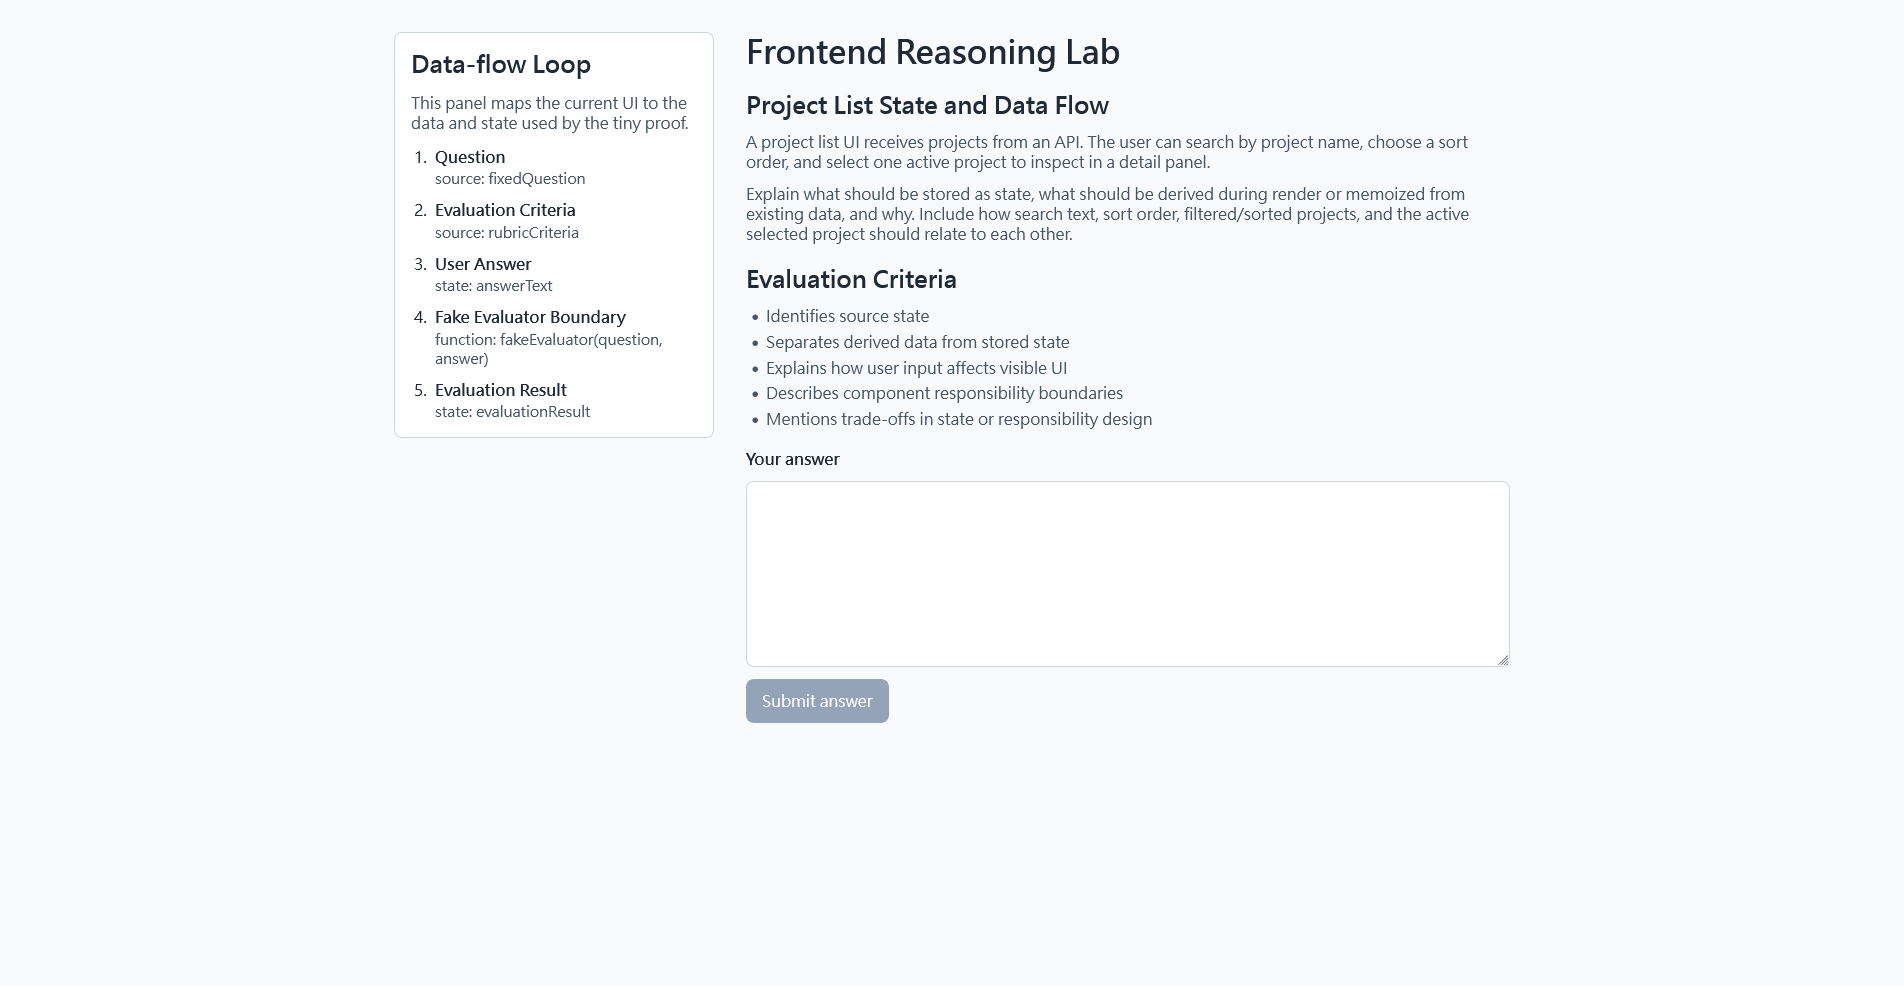
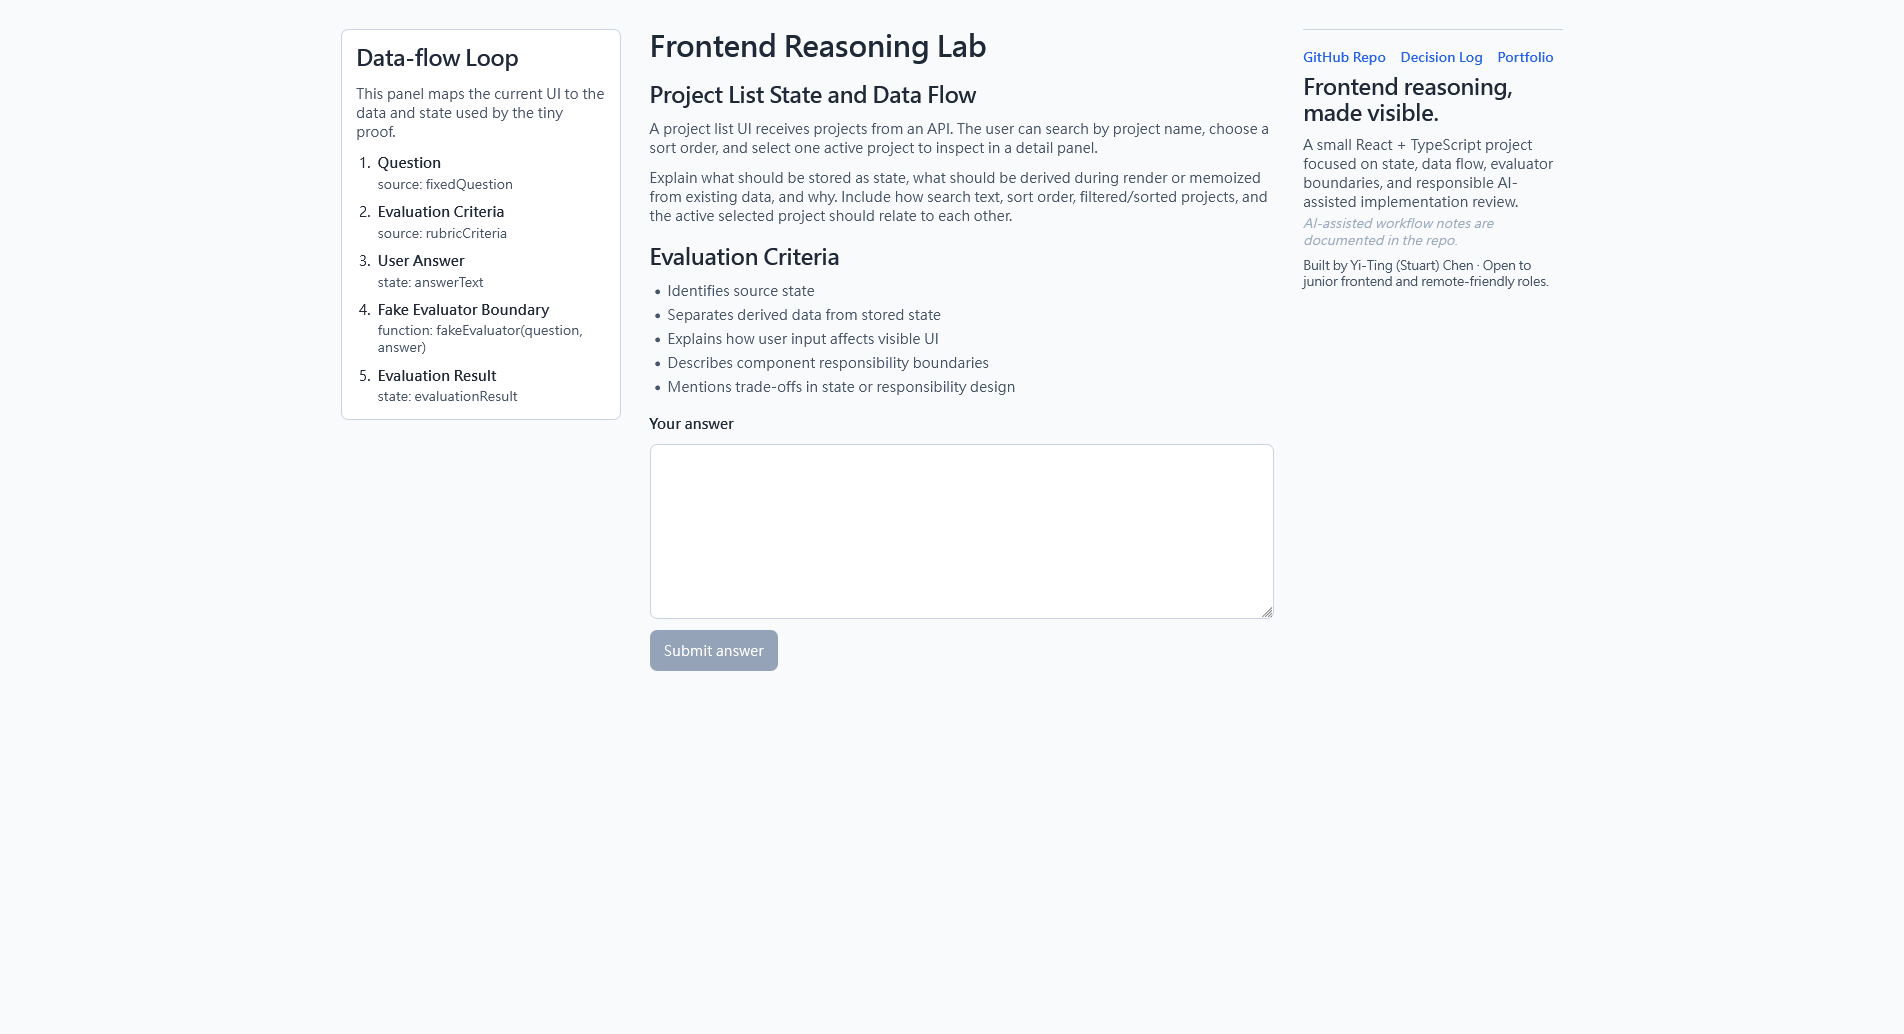
Improve FRL evidence discoverability - Add Decision Log link to live demo side panel - Add Project Evidence section near top of README - updating preview image

Changed region(s): [[0.1859, 0.0304, 0.8057, 0.426], [0.3409, 0.6085, 0.4648, 0.7302], [0.4028, 0.4564, 0.4338, 0.4868]]

diff --git a/src/components/ProjectFooter.tsx b/src/components/ProjectFooter.tsx
@@ -4,6 +4,10 @@ const footerLinks = [
     href: "https://github.com/stuartchendev/frontend-reasoning-lab",
   },
   {
+    label: "Decision Log",
+    href: "https://github.com/stuartchendev/frontend-reasoning-lab/blob/927427b3028dd8cbe9c09ba1a6ef9219c798fc1f/docs/ai-assisted-decision-log.md",
+  },
+  {
     label: "Portfolio",
     href: "https://stuartchendev.github.io/",
   },
@@ -27,8 +31,9 @@ export function ProjectFooter() {
 
       <h2>Frontend reasoning, made visible.</h2>
       <p>
-        A small React + TypeScript project focused on state, data flow, and
-        responsible AI-assisted implementation review.
+        A small React + TypeScript project focused on state, data flow,
+        evaluator boundaries, and responsible AI-assisted implementation review.
+        <em>AI-assisted workflow notes are documented in the repo.</em>
       </p>
       <p className="project-footer__closing">
         Built by Yi-Ting (Stuart) Chen · Open to junior frontend and

diff --git a/src/styles.css b/src/styles.css
@@ -34,9 +34,7 @@ select {
   display: grid;
   grid-template-areas: "flow app meta";
   grid-template-columns:
-    minmax(220px, 280px)
-    minmax(0, 1fr)
-    minmax(200px, 260px);
+    minmax(220px, 280px) minmax(0, 1fr) minmax(200px, 260px);
   gap: 2rem;
   padding: 2rem;
 }
@@ -123,7 +121,7 @@ select {
   color: #475569;
 }
 
-.criteria-block li + li {
+.criteria-block li+li {
   margin-top: 0.35rem;
 }
 
@@ -199,6 +197,15 @@ select {
 .project-footer p {
   color: #475569;
 }
+
+.project-footer p em {
+  display: block;
+  font-size: clamp(0.875rem, 2vw, 0.925rem);
+  margin-top: 0.25rem;
+  font-synthesis: style;
+  color: #99a9be;
+}
+
 
 .project-footer__closing {
   font-size: 0.875rem;

diff --git a/README.md b/README.md
@@ -6,6 +6,12 @@ Rather than building a large product, the goal is to demonstrate how I think abo
 
 > Train reasoning consistency, not answer generation.
 
+## Project Evidence
+
+- **Live Demo** — frontend reasoning loop and state-driven UI behavior
+- **AI-Assisted Decision Log** — scope decisions, AI assistance boundary, and owner review
+- **Evaluator Rubric** — reasoning criteria and evaluator boundary
+
 ## Live Demo
 
 [View Live Demo](https://frontend-reasoning-lab.netlify.app/)
